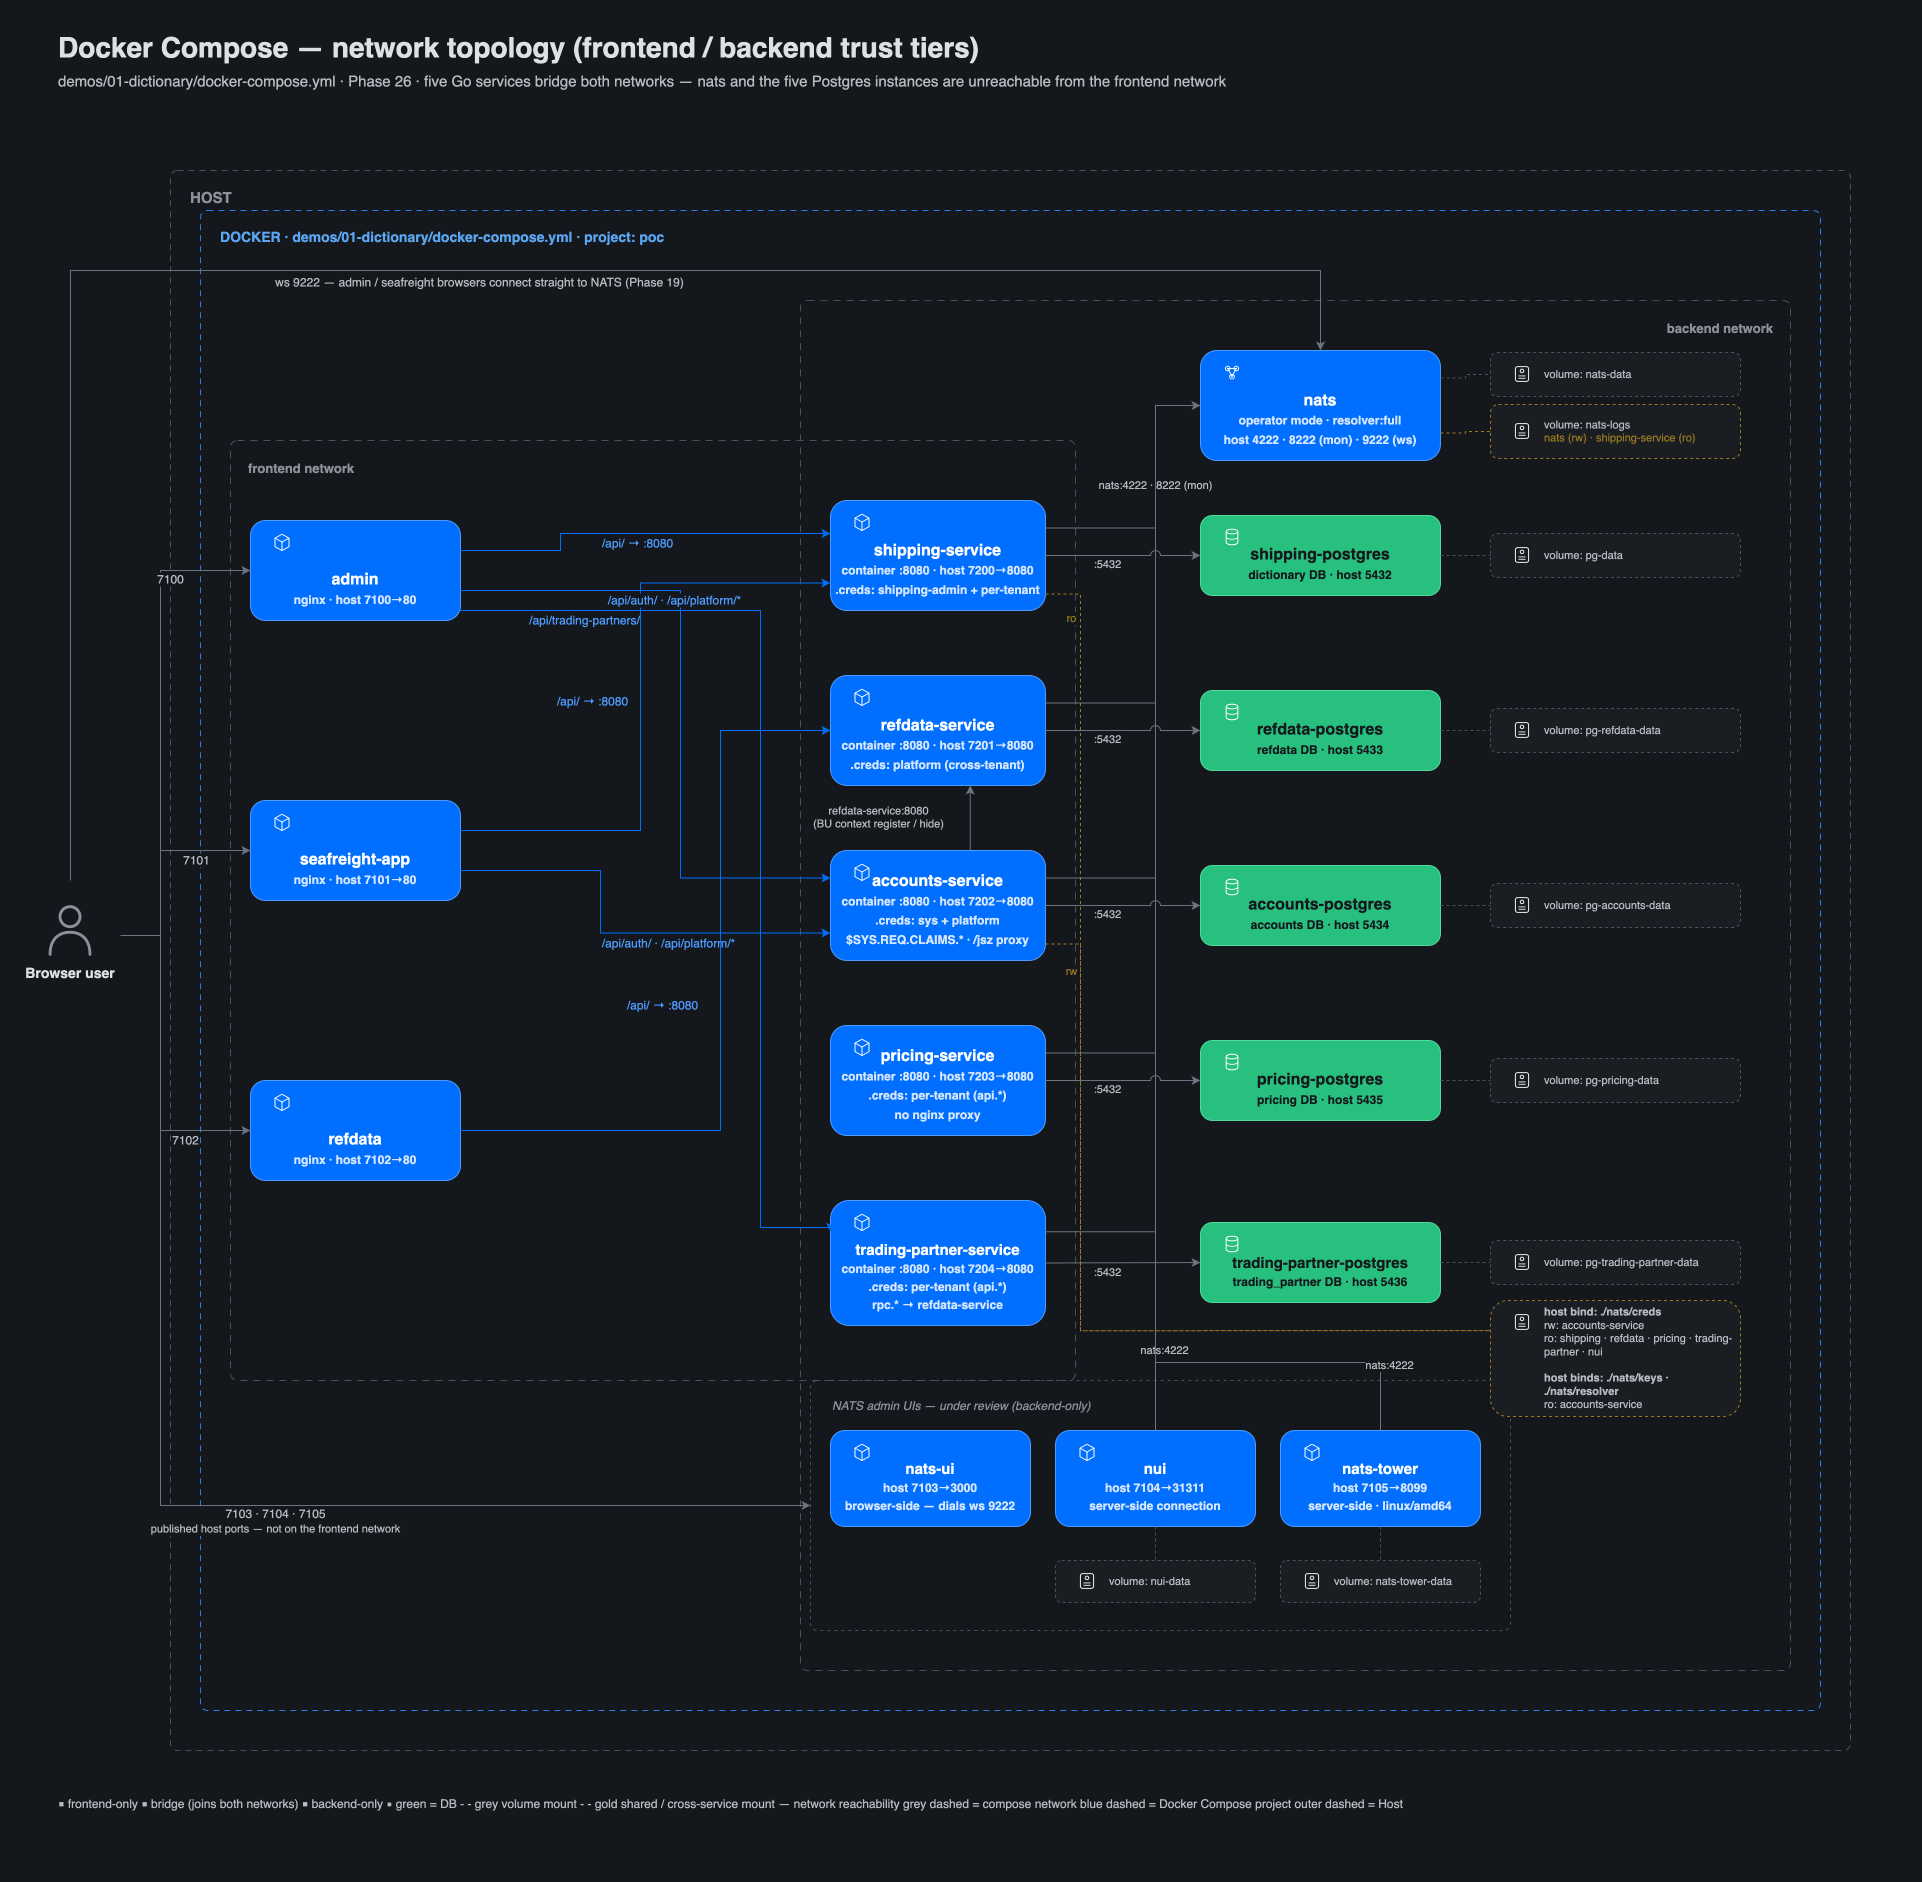
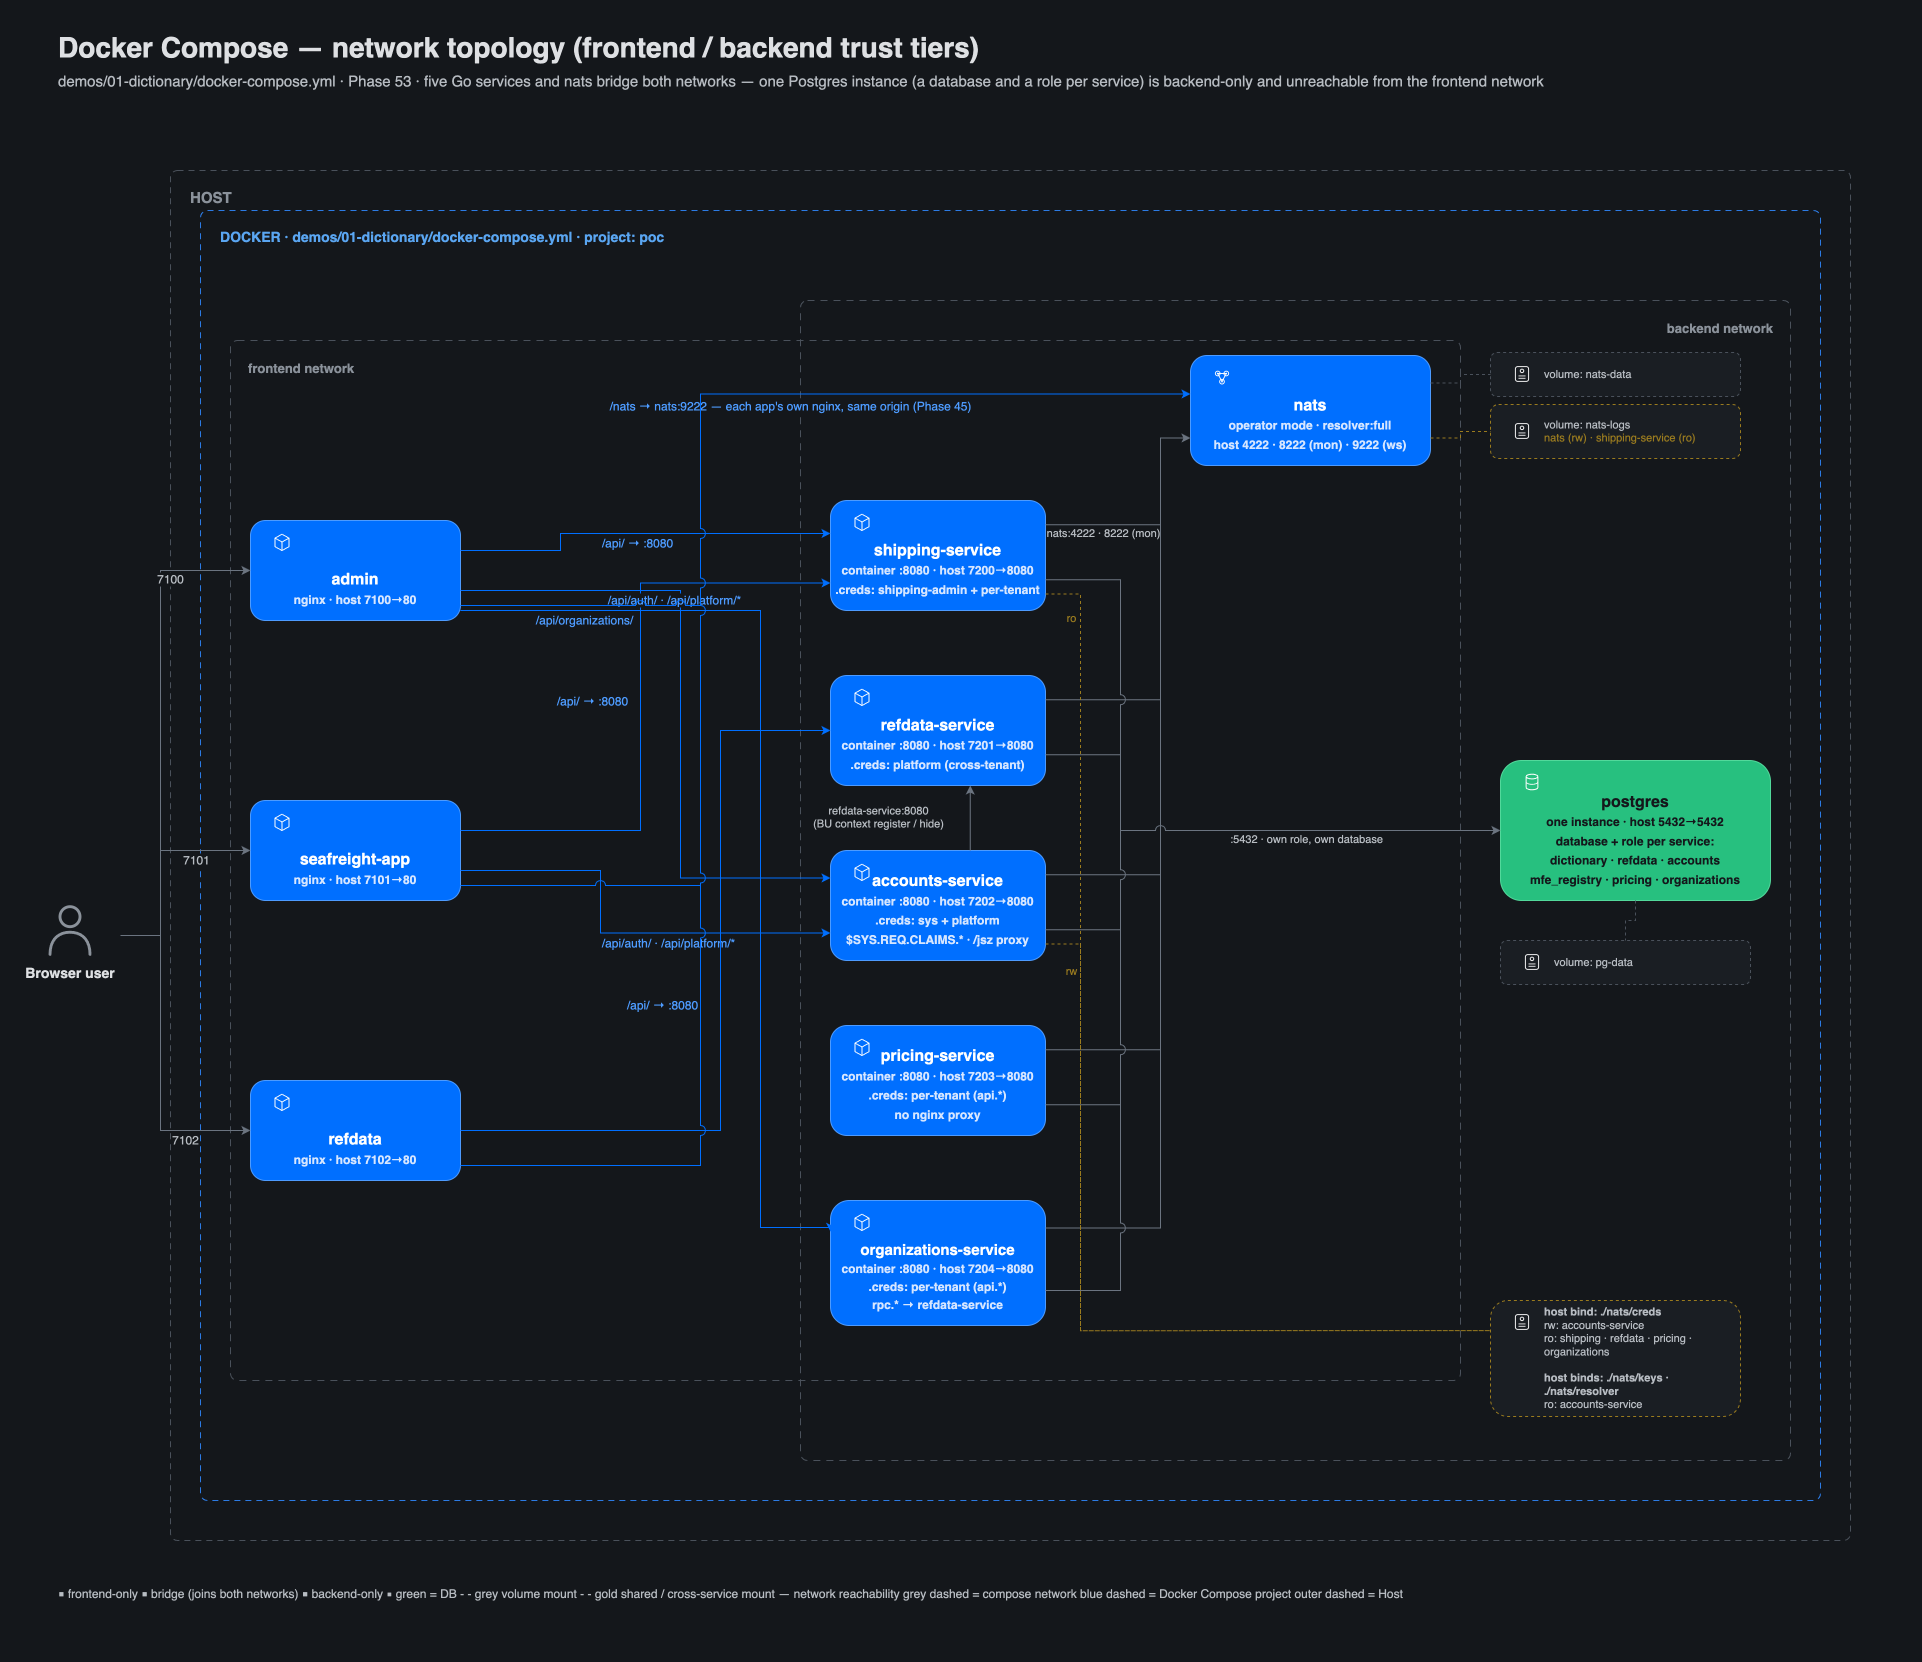
docs(diagrams): redraw the compose network for one Postgres and no review containers
Two already-landed changes had left the network diagram wrong in two
ways. Phase 53 / ADR-052 collapsed the four per-service Postgres
containers into one instance with a database and a role per service, so
the four separate database tiles and their volumes no longer exist. The
preceding commit removed nats-ui, nui and nats-tower, so their three
tiles no longer exist either.

sync-unifi-assets.mjs drops all seven cells and repositions the two that
remain; the drawio page and its exported PNG are regenerated from it.
BUSINESS_RULES.md's pricing entry still described a dedicated
pricing-postgres container on port 5435 and now names the shared
instance's pricing database and role.

diff --git a/demos/01-dictionary/BUSINESS_RULES.md b/demos/01-dictionary/BUSINESS_RULES.md
@@ -178,8 +178,9 @@ Split by domain so a rule add/edit only requires reading its own file:
   domain. Unlike refdata-service, this domain is write-adjacent (a fee
   calculation sits on a load-accept path in the source system), so it is
   its own service rather than a refdata-service extension. Postgres/REST
-  wiring is live (own `pricing-postgres` container, port 5435;
-  `pricing-service` on port 7203) and verified end to end. Phase 25e
+  wiring is live (the `pricing` database and role on the shared `postgres`
+  instance since Phase 53 / ADR-052; `pricing-service` on port 7203) and
+  verified end to end. Phase 25e
   resolved cross-service wiring in favor of the Sea Freight Flow *browser*
   talking to pricing-service directly — `shipping-service` never consults
   it — and Phase 25f built that path: an `api.*` adapter over one NATS
